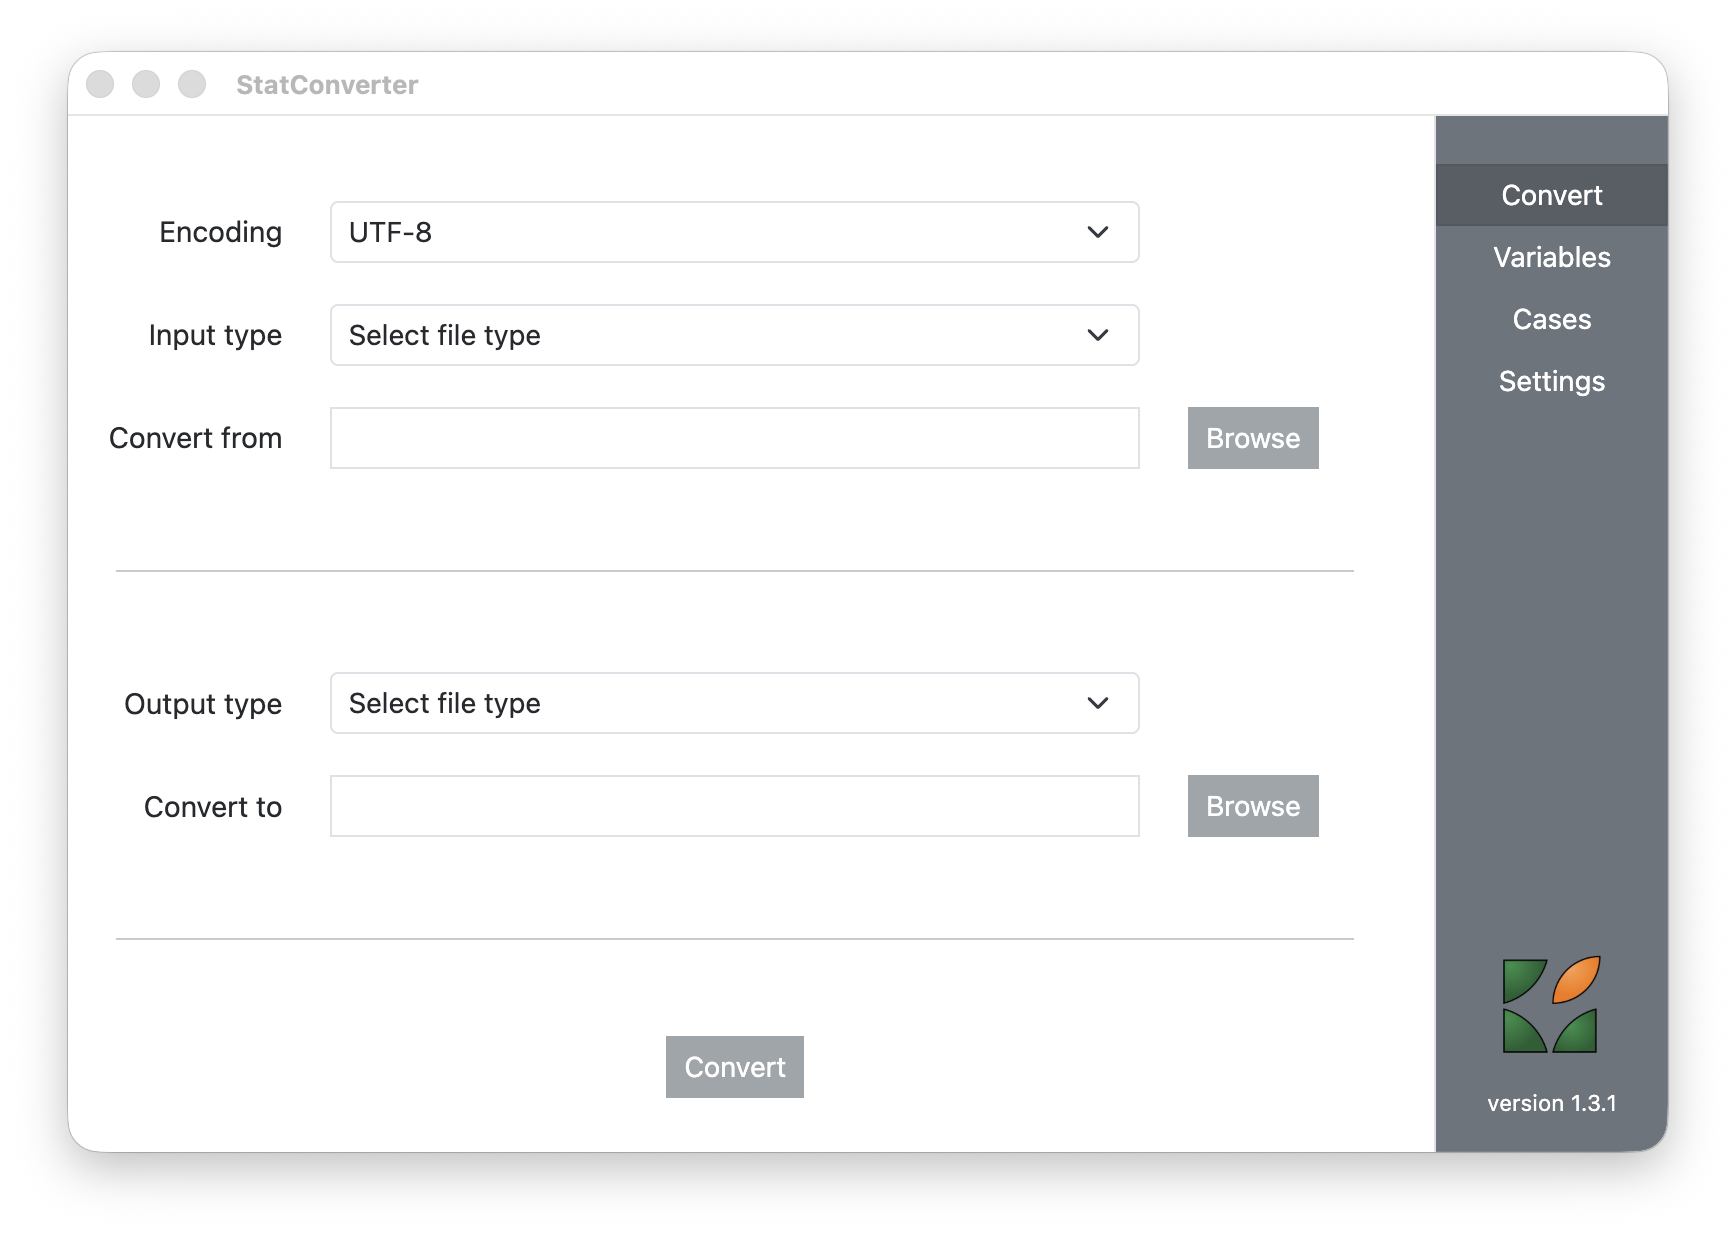
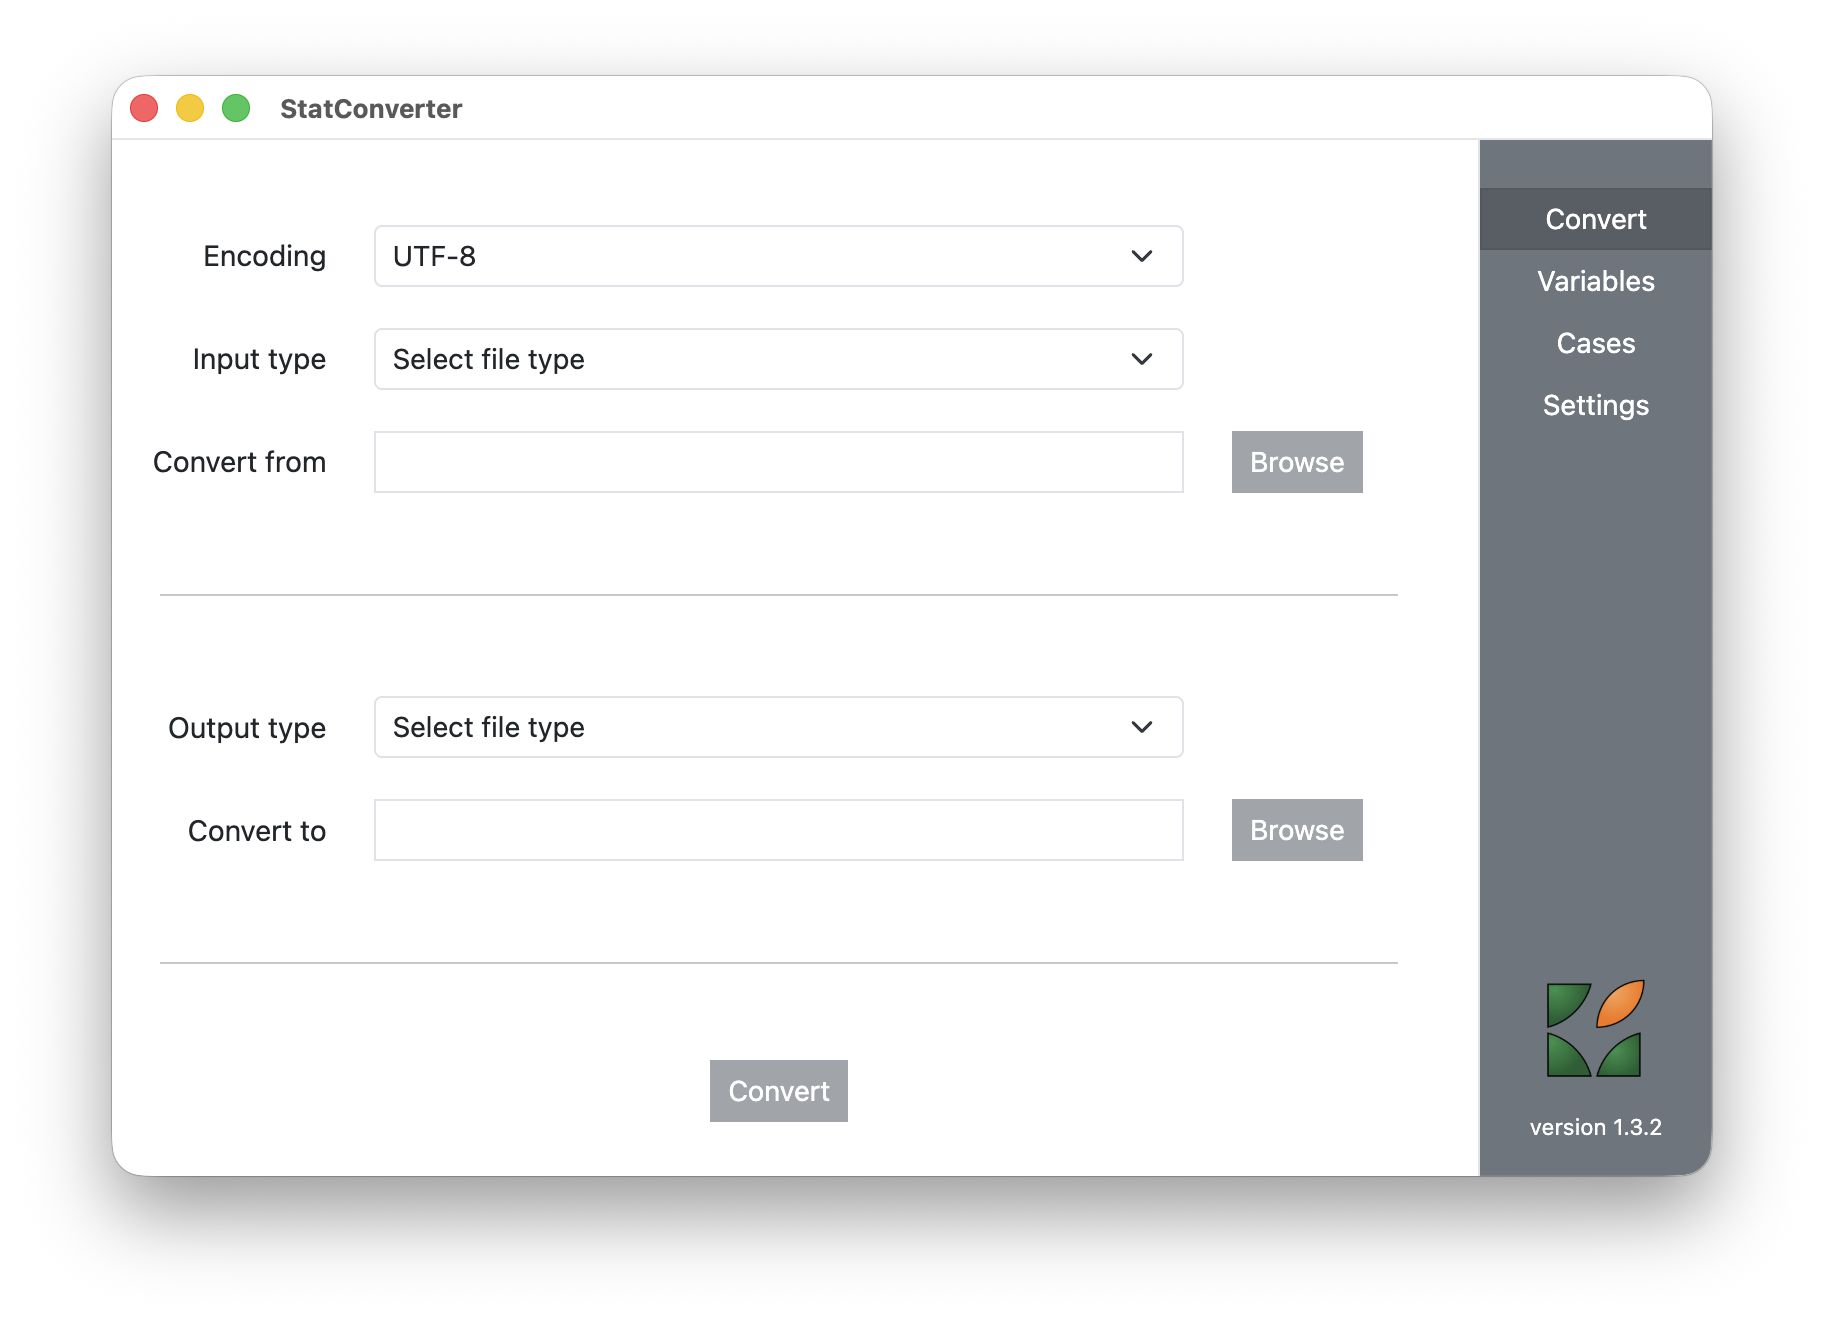
updated version and actions

diff --git a/docs/index.html b/docs/index.html
@@ -39,7 +39,7 @@
                     <h1>StatConverter</h1>
 
                     <p>
-                        StatConverter v1.2.1 (part of the <a href="http://www.roda.ro" target="_blank">RODA</a> Tools)
+                        StatConverter v1.3.2 (part of the <a href="http://www.roda.ro" target="_blank">RODA</a> Tools)
                         is a software to convert to and from various statistical package formats: R, SPSS, Stata, SAS (even Excel)
                         and DDI Codebook.
                     </p>
